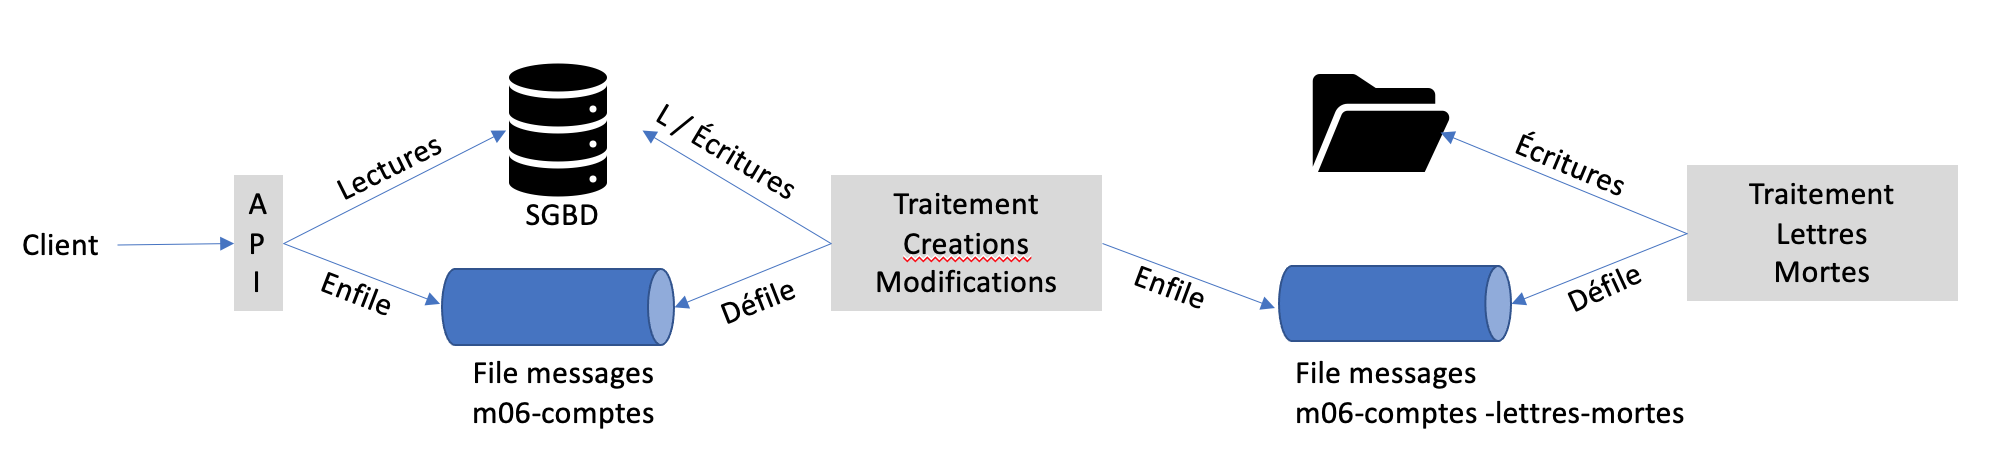
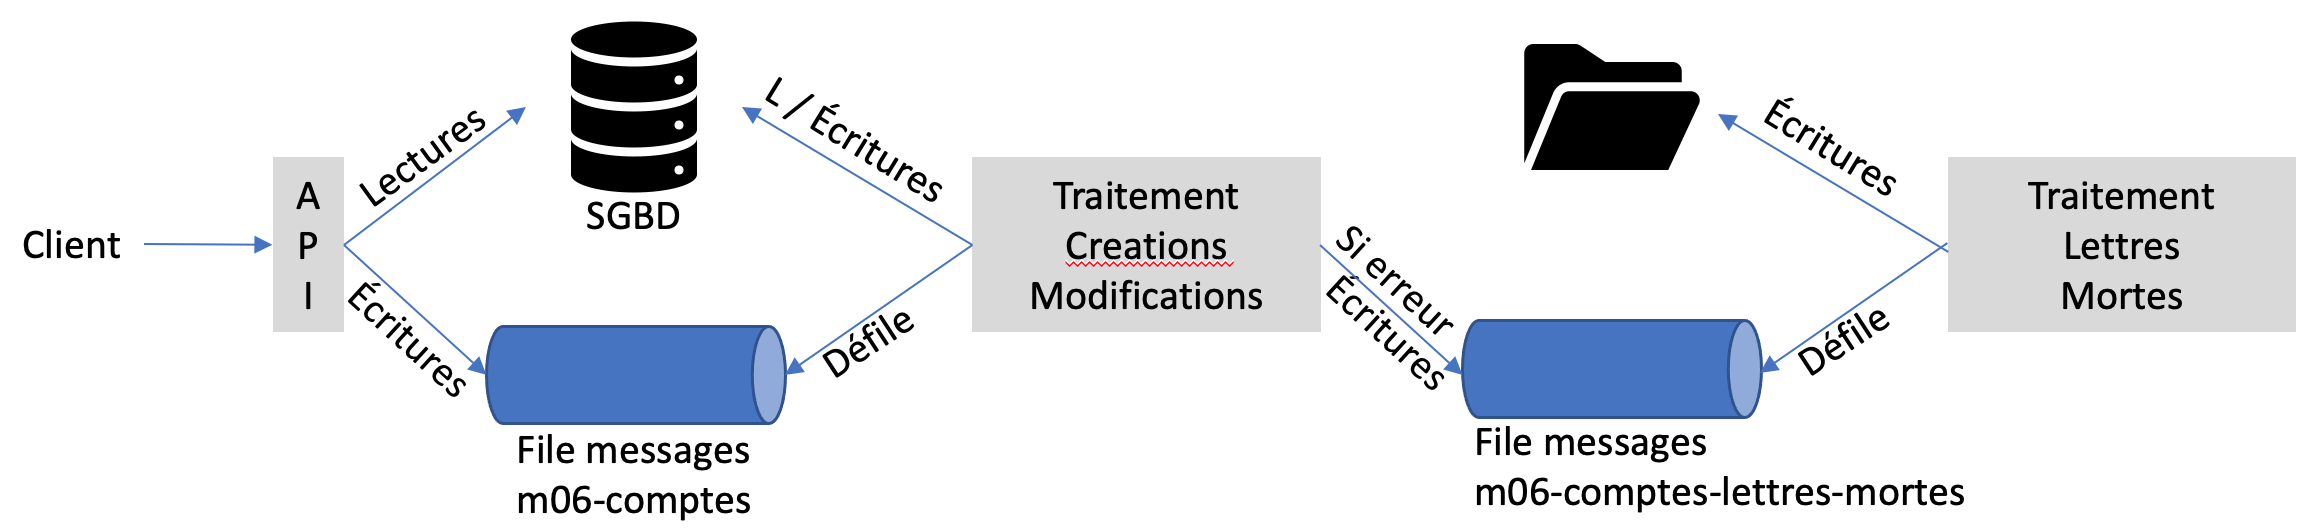
Ajout schémas

Changed region(s): [[0.0, 0.0302, 0.992, 0.9957]]

diff --git a/Module06_FileMessages/Module06_FileMessages_Exercices.md b/Module06_FileMessages/Module06_FileMessages_Exercices.md
@@ -40,6 +40,13 @@ Un client est défini par :
 - Essayez le programme
 
 <details>
+  <summary>Indices</summary>
+
+![Schéma fonctionnel des comptes](img/schema_fonctionnel_client.png)
+
+</details>
+
+<details>
     <summary>Proposition solution - diagramme de packages</summary>
 
 ![Proposition de digramme de packages](img/../../images/Module06_FileMessages/diag/uml_exercice2_package/clients_packages.png)
